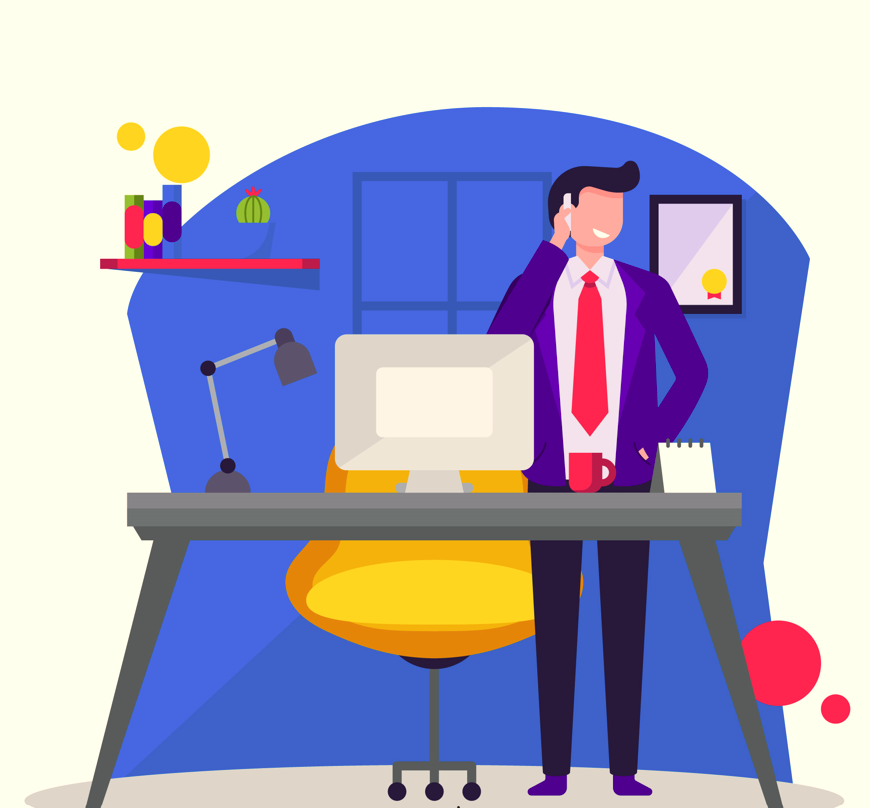
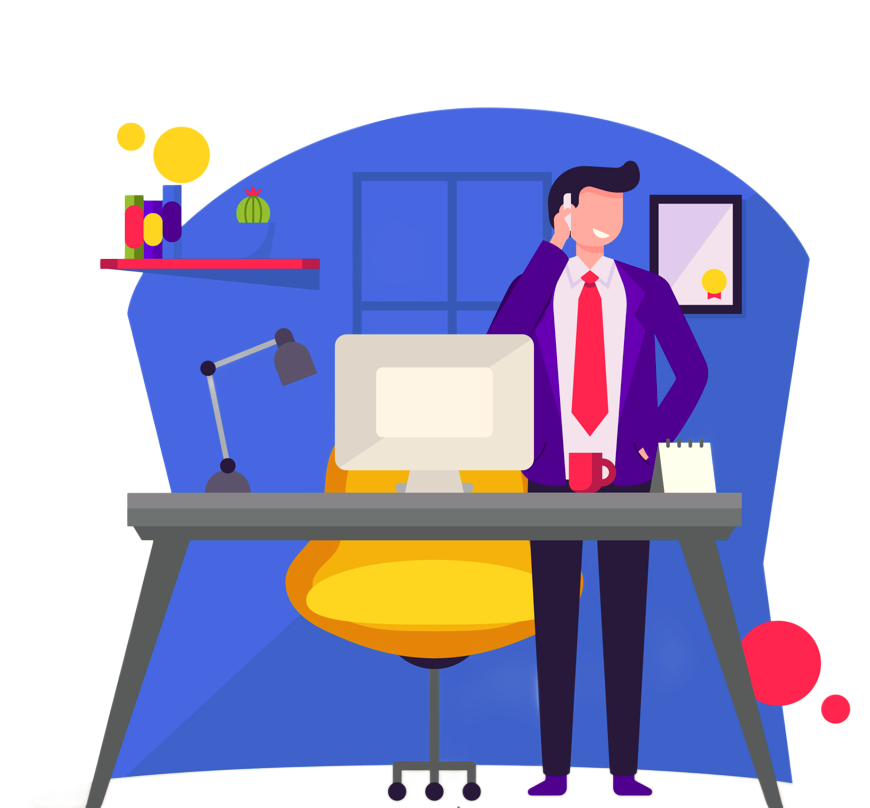
modify fonts

Changed region(s): [[0.031, 0.9282, 0.9931, 1.0], [0.5897, 0.8354, 0.6207, 0.8663]]

diff --git a/app/page.js b/app/page.js
@@ -17,10 +17,10 @@ export default function Home() {
     <div>
       {/* HERO */}
       <section className="bg-white">
-        <div className="max-w-[1200px] mx-auto px-4 sm:px-6 py-14 sm:py-20 grid grid-cols-1 lg:grid-cols-2 gap-10 items-center">
+        <div className="max-w-[1200px] mx-auto px-4 sm:px-6 py-14 sm:py-20 lg:py-[75px] grid grid-cols-1 lg:grid-cols-[1.2fr_0.8fr] gap-10 items-center">
           {/* Text */}
-          <div className="animate-fade-in order-2 lg:order-1">
-            <h1 className="text-[2rem] sm:text-[2.6rem] lg:text-[3.2rem] font-extrabold text-slate-900 leading-[1.15] mb-6">
+          <div className="animate-fade-in order-2 lg:order-1 ">
+            <h1 className="text-[2rem] sm:text-[2.6rem] lg:text-[2.8rem] font-extrabold text-slate-900 leading-[1.15] mb-6">
               Connect With <span className="text-blue-600">Academic</span> Experts
             </h1>
             <p className="text-slate-500 text-base sm:text-[17px] leading-[1.8] mb-8">
@@ -46,7 +46,7 @@ export default function Home() {
               alt="Academic Expert"
               width={380}
               height={380}
-              className="animate-float bg-white rounded-full p-4 object-contain drop-shadow-[0_20px_40px_rgba(37,99,235,0.15)] w-[220px] sm:w-[300px] lg:w-[380px]"
+              className="animate-float  p-4 object-contain drop-shadow-[0_20px_40px_rgba(37,99,235,0.15)] w-[220px] sm:w-[300px] lg:w-[380px]"
               priority
             />
           </div>